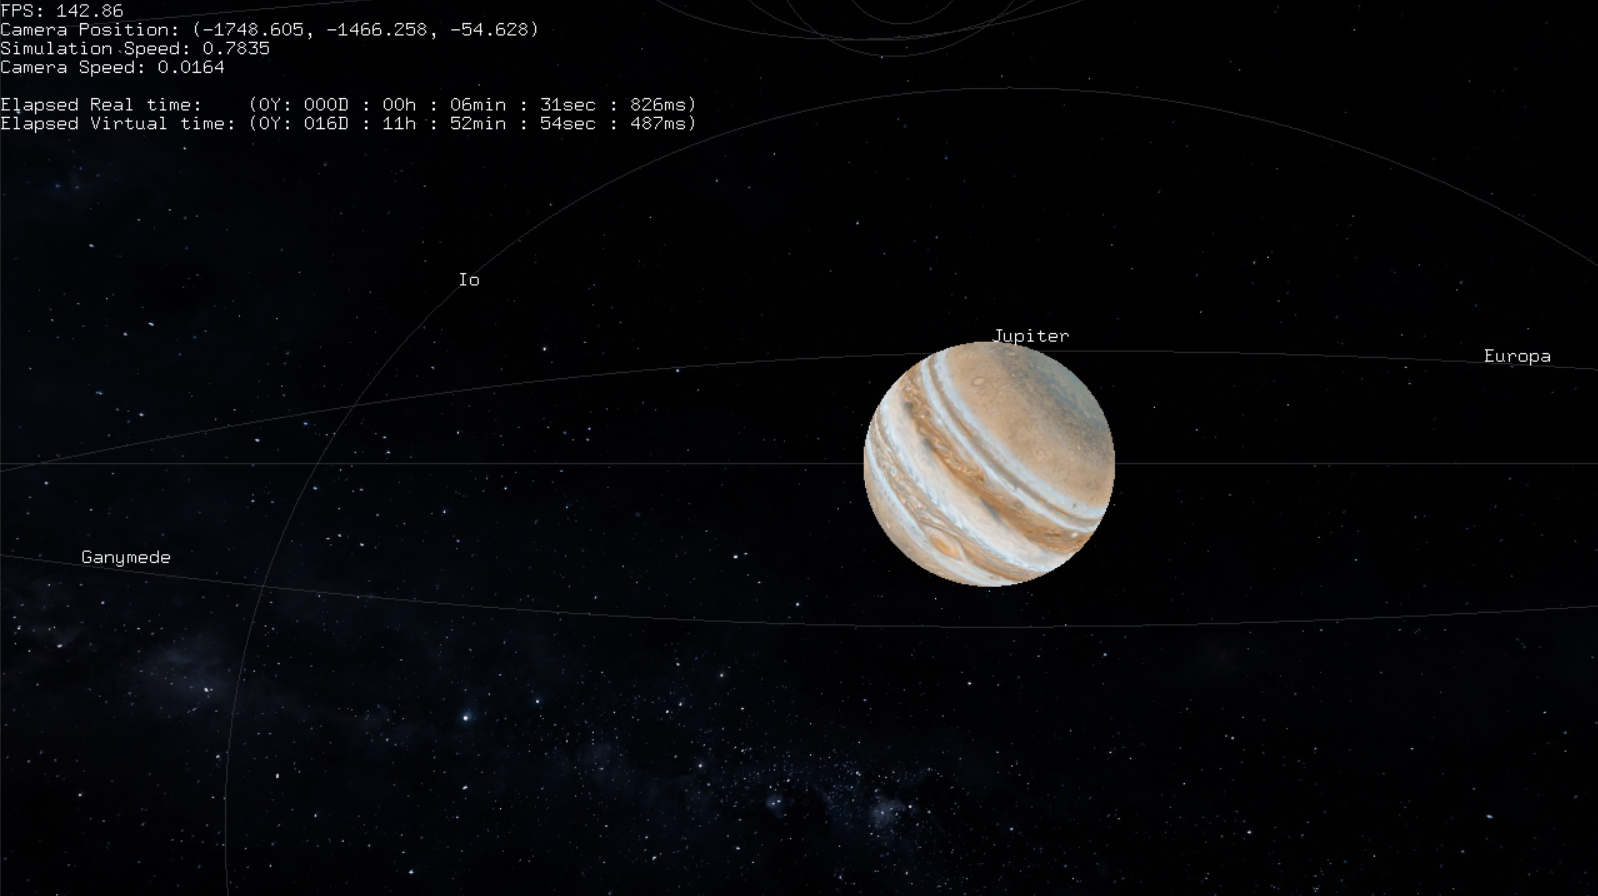
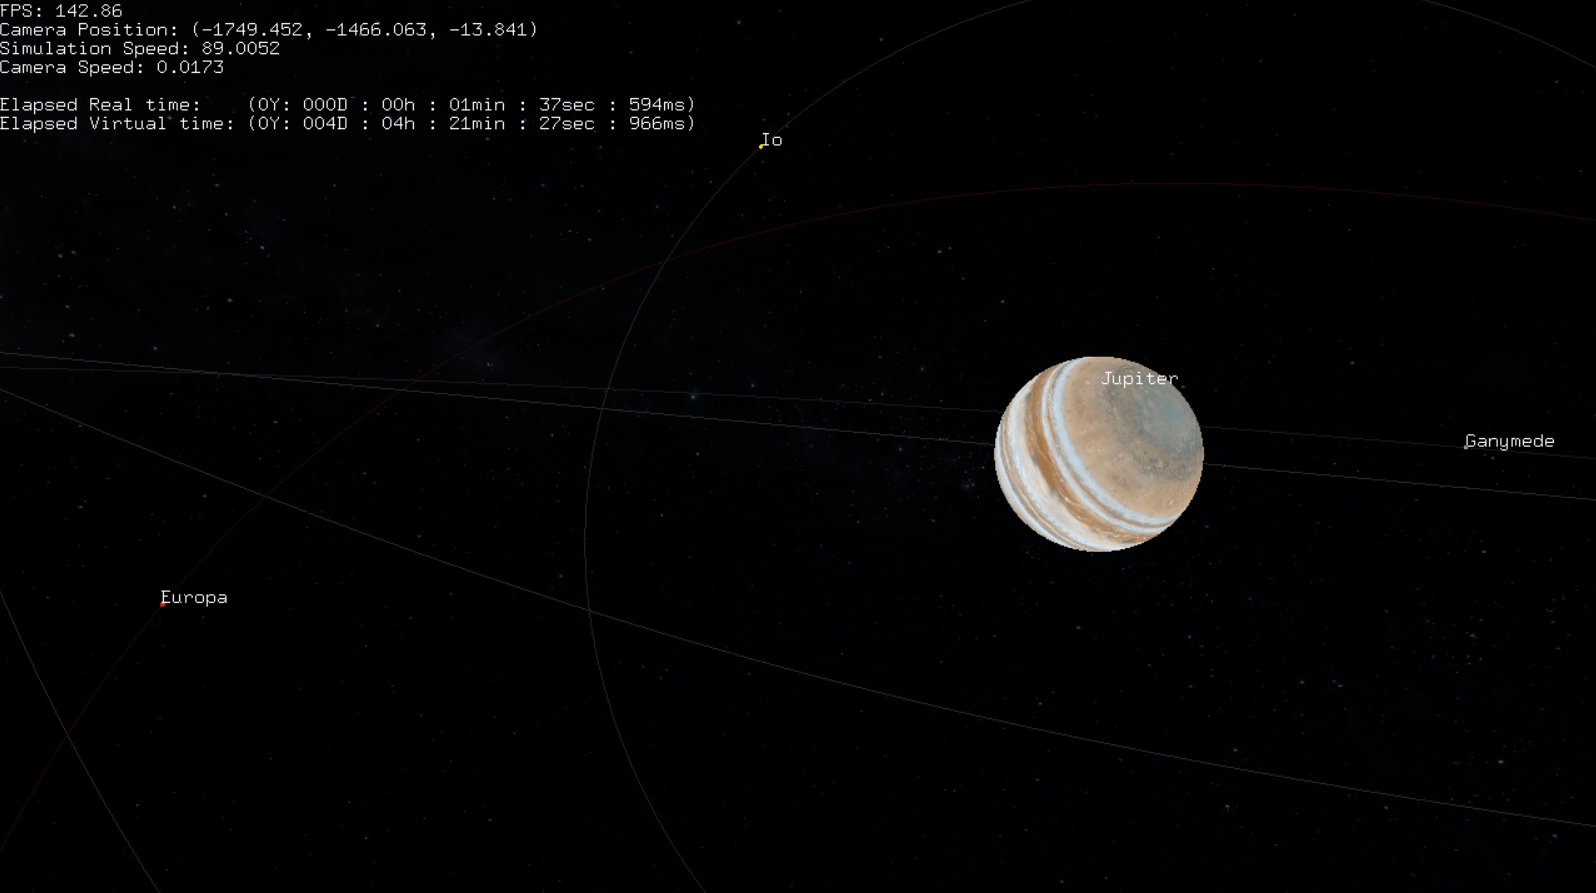
Completed MenuScreen implementation

diff --git a/include/MenuScreen.h b/include/MenuScreen.h
@@ -14,7 +14,7 @@
 
 struct MenuScreen
 {
-    float* pWindowMatrix;
+    const float* pWindowMatrix;
 
     int screenWidth;
     int screenHeight;
@@ -31,17 +31,17 @@ struct MenuScreen
 typedef struct MenuScreen MenuScreen;
 
 
-MenuScreen* initMenuScreen(float* pWindowMatrix, int n_options, ...)
+MenuScreen* initMenuScreen(const float* pWindowMatrix, const int n_options, ...)
 {
-    MenuScreen* menuScreen = (MenuScreen *)malloc(sizeof(MenuScreen));
+    MenuScreen* m = (MenuScreen *)malloc(sizeof(MenuScreen));
 
-    menuScreen->pWindowMatrix = pWindowMatrix;
+    m->pWindowMatrix = pWindowMatrix;
 
-    menuScreen->numOptions = n_options;
+    m->numOptions = n_options;
 
-    menuScreen->optionNames = (char **)malloc(n_options * sizeof(char *));
+    m->optionNames = (char **)malloc(n_options * sizeof(char *));
 
-    menuScreen->currentlySelectedOption = 0;
+    m->currentlySelectedOption = 0;
 
 
     va_list optionStringsArgumentList;
@@ -52,33 +52,33 @@ MenuScreen* initMenuScreen(float* pWindowMatrix, int n_options, ...)
     {
         const char* option = va_arg(optionStringsArgumentList, const char*);
 
-        menuScreen->optionNames[i] = strBuild(option);
+        m->optionNames[i] = strBuild(option);
     }
 
     va_end(optionStringsArgumentList);
 
-    return menuScreen;
+    return m;
 }
 
 MenuScreen* initMenuScreenEmpty(float* pWindowMatrix, int n_options)
 {
-    MenuScreen* menuScreen = (MenuScreen *)malloc(sizeof(MenuScreen));
+    MenuScreen* m = (MenuScreen *)malloc(sizeof(MenuScreen));
 
-    menuScreen->pWindowMatrix = pWindowMatrix;
+    m->pWindowMatrix = pWindowMatrix;
     
-    menuScreen->numOptions = n_options;
+    m->numOptions = n_options;
 
-    menuScreen->optionNames = (char **)malloc(n_options * sizeof(char *));
+    m->optionNames = (char **)malloc(n_options * sizeof(char *));
     
-    menuScreen->currentlySelectedOption = 0;
+    m->currentlySelectedOption = 0;
 
 
     for (int i = 0; i < n_options; ++i) 
     {
-        menuScreen->optionNames[i] = NULL;
+        m->optionNames[i] = NULL;
     }
 
-    return menuScreen;
+    return m;
 }
 
 MenuScreen* setMenuScreenDimensions(MenuScreen* m, int width, int height)
@@ -124,7 +124,7 @@ void renderMenuScreen(MenuScreen* m)
 
     float hiBorder = 0.5f + (m->numOptions / 2 + 1) * .05f;
     float loBorder = 0.5f - (m->numOptions / 2 + 1) * .05f;
-    
+
     glBegin(GL_QUADS);
     {
         glColor4f(.3f, .3f, .3f, 0.5f);
@@ -175,7 +175,7 @@ void renderMenuScreen(MenuScreen* m)
     glPopMatrix();
 }
 
-void menuScreenHandler(MenuScreen* m)
+const char* menuScreenHandler(MenuScreen* m, int* optionID)
 {
     if (arrowDownLoaded)
     {
@@ -189,12 +189,23 @@ void menuScreenHandler(MenuScreen* m)
             m->currentlySelectedOption -= 1;
         arrowUpLoaded = false;
     }
+    
+    if (keystrokes['\n'] || keystrokes['\f'] || keystrokes['\r'])
+    {
+        if (optionID != NULL)
+            *optionID = m->currentlySelectedOption;
+            
+        return m->optionNames[m->currentlySelectedOption];
+    }
+    return NULL;
 }
 
 void deleteMenuScreen(MenuScreen* m)
 {
-    for (int i = 0; i < m->numOptions; ++i) {
-        free(m->optionNames[i]);
+    for (int i = 0; i < m->numOptions; ++i) 
+    {
+        if (m->optionNames[i] != NULL)
+            free(m->optionNames[i]);
     }
     free(m->optionNames);
     free(m);

diff --git a/src/main.c b/src/main.c
@@ -151,16 +151,9 @@ int main(int argc, char* argv[])
 
 void display(void)
 {
-    if (keystrokes[27])
-    {
-        // Exit program when ESC is pressed.
-        glutDestroyWindow(window_id);
-        glutLeaveMainLoop();
-        return;
-    }
     keyToggle('H', &enableHUD, 250);
     keyToggle('P', &enablePlanetMenu, 250);
-    keyToggle('M', &enableMainMenu, 250);
+    keyToggle(27,  &enableMainMenu, 250);
 
     double elapsed_seconds = (double)(getAbsoluteTimeMillis() - refresh_ts) / 1000.0;
 
@@ -200,15 +193,40 @@ void display(void)
         renderStellarObject(stellarObjects[i], true, trajectoryListId, cachedAncestors[i], &numCachedAncestors[i]);
     }
 
+    const char* option;
+    int optionIndex;
+
     if (enableMainMenu)
     {
+        enablePlanetMenu = false;
+
         renderMenuScreen(mainMenuScreen);
-        menuScreenHandler(mainMenuScreen);
+
+        if ((option = menuScreenHandler(mainMenuScreen, NULL)) != NULL)
+        {
+            if (strcmp(option, "Free-fly") == 0)
+                camera->anchor = NULL;
+            
+            if (strcmp(option, "Exit") == 0)
+            {
+                // Exit program when ESC is pressed.
+                glutDestroyWindow(window_id);
+                glutLeaveMainLoop();
+                return;
+            }
+
+            enableMainMenu = false;
+        }
     }
     if (enablePlanetMenu)
     {
         renderMenuScreen(planetMenuScreen);
-        menuScreenHandler(planetMenuScreen);
+
+        if ((option = menuScreenHandler(planetMenuScreen, &optionIndex)) != NULL)
+        {
+            camera->anchor = stellarObjects[optionIndex];
+            enablePlanetMenu = false;
+        }
     }
 
     renderStars(starsSkyBox);
@@ -226,7 +244,7 @@ void display(void)
         snprintf(logBuffer, sizeof(logBuffer), "FPS: %.2lf", 1 / elapsed_seconds);
         renderStringOnScreen(0.0, window_height - 15.0f, GLUT_BITMAP_9_BY_15, logBuffer, 0xFF, 0xFF, 0xFF);
 
-        snprintf(logBuffer, sizeof(logBuffer), "Camera Position: (%.3f, %.3f, %.3f)", camera->position[0], camera->position[1], camera->position[2]);
+        snprintf(logBuffer, sizeof(logBuffer), "Camera Position: (%lf, %lf, %lf)", camera->position[0], camera->position[1], camera->position[2]);
         renderStringOnScreen(0.0, window_height - 30.0f, GLUT_BITMAP_9_BY_15, logBuffer, 0xFF, 0xFF, 0xFF);
 
         snprintf(logBuffer, sizeof(logBuffer), "Simulation Speed: %.4f", simulationSpeed);
@@ -248,7 +266,7 @@ void display(void)
         for (int i = 0; i < numStellarObjects; ++i)
         {
             snprintf(
-                logBuffer, sizeof(logBuffer), "%s's position: (%.3f, %.3f, %.3f)", 
+                logBuffer, sizeof(logBuffer), "%s's position: (%lf, %lf, %lf)", 
                 stellarObjects[i]->name, 
                 (float)stellarObjects[i]->apparentPosition[0], 
                 (float)stellarObjects[i]->apparentPosition[1], 
@@ -417,10 +435,8 @@ void initGlobals(int argc, char* argv[])
     mainMenuScreen = setMenuScreenDimensions(
         initMenuScreen(
             windowMatrix,
-            4,
-            "Option 1",
-            "Option 2",
-            "Option 3",
+            2,
+            "Free-fly",
             "Exit"
         ),
         window_width, window_height

diff --git a/include/StellarObject.h b/include/StellarObject.h
@@ -42,6 +42,9 @@ typedef struct StellarObject
     // The trajectory's angle relevant to the parent's coordinate system.
     real_t solarTilt;
 
+    real_t sinCummulativeSolarTilt;
+    real_t cosCummulativeSolarTilt;
+
     real_t selfAngularVelocity;
 
     real_t selfParametricAngle;
@@ -109,6 +112,15 @@ StellarObject* initStellarObject(
 
     gluQuadricDrawStyle(p->quad, GLU_FILL);
 
+
+    real_t cummulativeSolarTilt = (real_t).0;
+    
+    for (StellarObject* iterator = p; iterator != NULL; iterator = iterator->parent)
+        cummulativeSolarTilt += iterator->solarTilt;
+
+    p->cosCummulativeSolarTilt = (real_t)cos((double)cummulativeSolarTilt * (M_PI / 180.0));
+    p->sinCummulativeSolarTilt = (real_t)sin((double)cummulativeSolarTilt * (M_PI / 180.0));
+
     return p;
 }
 
@@ -161,8 +173,8 @@ void updateStellarObject(StellarObject* p, real_t speed_factor, real_t dt)
     p->parametricPosition[1] = (real_t)(sin((double)p->parametricAngle) * (double)p->parentDistance);
 
     // Apparent 3D position with respect to their parent's coordinate system.
-    p->apparentPosition[0] = p->parametricPosition[0] * cos(p->solarTilt * (real_t)(M_PI / 180.0)); 
-    p->apparentPosition[1] = p->parametricPosition[0] * sin(p->solarTilt * (real_t)(M_PI / 180.0));
+    p->apparentPosition[0] = p->parametricPosition[0] * p->cosCummulativeSolarTilt;
+    p->apparentPosition[1] = p->parametricPosition[0] * p->sinCummulativeSolarTilt;
     p->apparentPosition[2] = p->parametricPosition[1];
 
     if (p->parent != NULL)
@@ -269,8 +281,6 @@ void renderStellarObject(
     }
 
     glPushMatrix();
-    
-    // updateStellarObjectApparentPosition(p);
 
     glRotatef((float)p->solarTilt - 90.0f, 1.0f, .0f, .0f);
     // Animation for rotation around axis.

diff --git a/include/Camera.h b/include/Camera.h
@@ -4,6 +4,7 @@
 #include <GL/glut.h>
 
 #include "CustomTypes.h"
+#include "StellarObject.h"
 #include "KeyboardCallback.h"
 #include "PassiveMotionCallback.h"
 
@@ -19,6 +20,8 @@ typedef struct Camera
     real_t movementSpeed;
 
     real_t renderDistance;
+
+    StellarObject* anchor;
     
 } Camera;
 
@@ -54,6 +57,8 @@ Camera* initCamera(
     camera->movementSpeed = (real_t)0.5;
     camera->renderDistance = (real_t)render_distance;
 
+    camera->anchor = NULL;
+
     return camera;
 }
 
@@ -74,6 +79,35 @@ void updateCamera(Camera* camera)
     camera->lookAt[2] = (real_t)(cos_vert * cos_horz);
 
     real_t movementSpeed = camera->movementSpeed;
+
+
+    if (camera->anchor != NULL)
+    {
+        camera->position[0] = camera->anchor->apparentPosition[0];
+        camera->position[1] = camera->anchor->apparentPosition[1];
+        camera->position[2] = camera->anchor->apparentPosition[2];
+
+        camera->position[0] += camera->anchor->radius * (real_t)4.5;
+        camera->position[1] += camera->anchor->radius * (real_t)4.5;
+        camera->position[2] += camera->anchor->radius * (real_t)4.5;
+
+        gluLookAt(
+            (double)camera->position[0], 
+            (double)camera->position[1], 
+            (double)camera->position[2],
+
+            (double)(camera->position[0] + camera->lookAt[0]), 
+            (double)(camera->position[1] + camera->lookAt[1]), 
+            (double)(camera->position[2] + camera->lookAt[2]),
+
+            (double)camera->upVector[0], 
+            (double)camera->upVector[1], 
+            (double)camera->upVector[2]
+        );
+
+        return;
+    }
+
 
     if (shift_key_down) 
     {

diff --git a/include/BitmapImages.h b/include/BitmapImages.h
@@ -111,6 +111,8 @@ ubyte* loadBitmapToRGBArray(const char* filename, unsigned int* width, unsigned 
             image[offset + 0] = fgetc(fp);
         }
     }
+    
+    fclose(fp);
 
     if (debug)
     {   
@@ -133,8 +135,6 @@ ubyte* loadBitmapToRGBArray(const char* filename, unsigned int* width, unsigned 
         printf("biClrImportant:%i\n", bmih.biClrImportant);
         printf("--------------------\n");
     }
-
-    fclose(fp);
 
     return image;
 }
